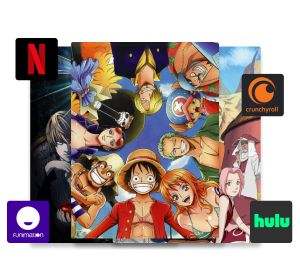
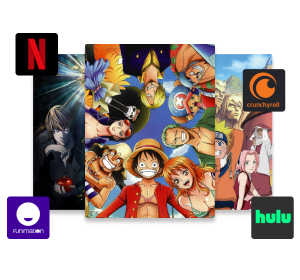
landing page created a consistent layout

diff --git a/src/components/shared/FeatureCard.tsx b/src/components/shared/FeatureCard.tsx
@@ -15,37 +15,22 @@ interface FeatureCardProps {
 
 const FeatureCard: React.FC<FeatureCardProps> =  ({cardData}) => {
     return (
-        <>
-        <div className="
-            max-w-sm rounded-sm overflow-hidden flex flex-col justify-center
-            bg-gradient-to-b from-neutral-900 to bg-neutral-950
-            w-full px-4 my-2
-            ">
-            <div className="lg:h-2/5 h-1/2 flex justify-center ">
-            {isMobile ? (
+        <div className="max-w-sm rounded-sm overflow-hidden flex flex-col bg-gradient-to-b from-neutral-900 to bg-neutral-950 w-full aspect-square p-4 my-2">
+            <div className="flex justify-center">
                 <Image
-                src={cardData.img}
-                width={225}
-                height={196}
-                alt="feature backdrop"
-            /> 
-            ): (
-                <Image
-                src={cardData.img}
-                width={300}
-                height={280}
-                alt="feature backdrop"
-            /> 
-            )}               
+                    src={cardData.img}
+                    width={isMobile ? 225 : 300}
+                    height={isMobile ? 196 : 280}
+                    alt="feature backdrop"
+                />
             </div>
-            <div className="mt-4 py-0 lg:mt-8 px-6 lg:py-4 text-center">
-                <div className="[font-size:var(--step--3)] lg:[font-size:var(--step--2)] font-semibold text-primary-600 mb-2">{cardData.title}</div>
-                <div className="[font-size:var(--step-0)] lg:[font-size:var(--step-1)] font-bold leading-8 py-4 text-white text-base">{cardData.heading}</div>
-                <div className="[font-size:var(--step--1)] lg:[font-size:var(--step--0)] text-white text-base">{cardData.description}</div>            
+            <div className="flex flex-col justify-between mt-4 py-0 lg:mt-8 px-2 md:px-6 lg:py-4 text-center h-full">
+                <div className="text-primary-600 mb-2 text-[var(--step--1)] lg:text-[var(--step--2)] font-semibold">{cardData.title}</div>
+                <div className="text-white text-base text-[var(--step-2)] lg:text-[var(--step-1)] font-bold leading-8 py-4">{cardData.heading}</div>
+                <div className="text-white text-base text-[var(--step--1)] lg:text-[var(--step--0)]">{cardData.description}</div>            
             </div>
         </div>
-        </>
-    );   
+    );
 }
 
 export default FeatureCard;

diff --git a/src/pages/index.tsx b/src/pages/index.tsx
@@ -99,7 +99,7 @@ const Home = () => {
             </Section> */}
 
             <div className="px-4 md:px-12 lg:px-20 xl:px-28 2xl:px-36
-                [font-size:var(--step-4)] font-bold pb-12"> Explore the Latest Trending Anime & Manga Titles</div>
+                [font-size:var(--step-3)] md:[font-size:var(--step-4)] font-bold md:pb-12">Trending Anime Genres </div>
                 {[...Array(2)].map((_, index) => (
                 // eslint-disable-next-line react/jsx-key
                   <RandomGenreSection isMobile={isMobile}/>
